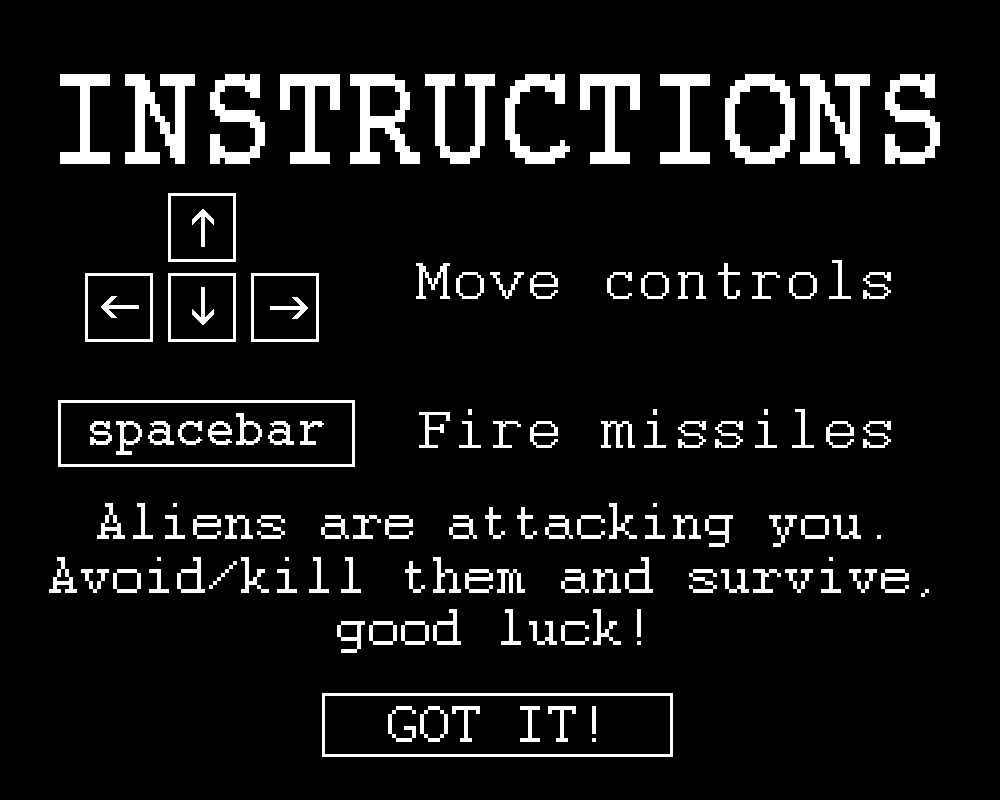
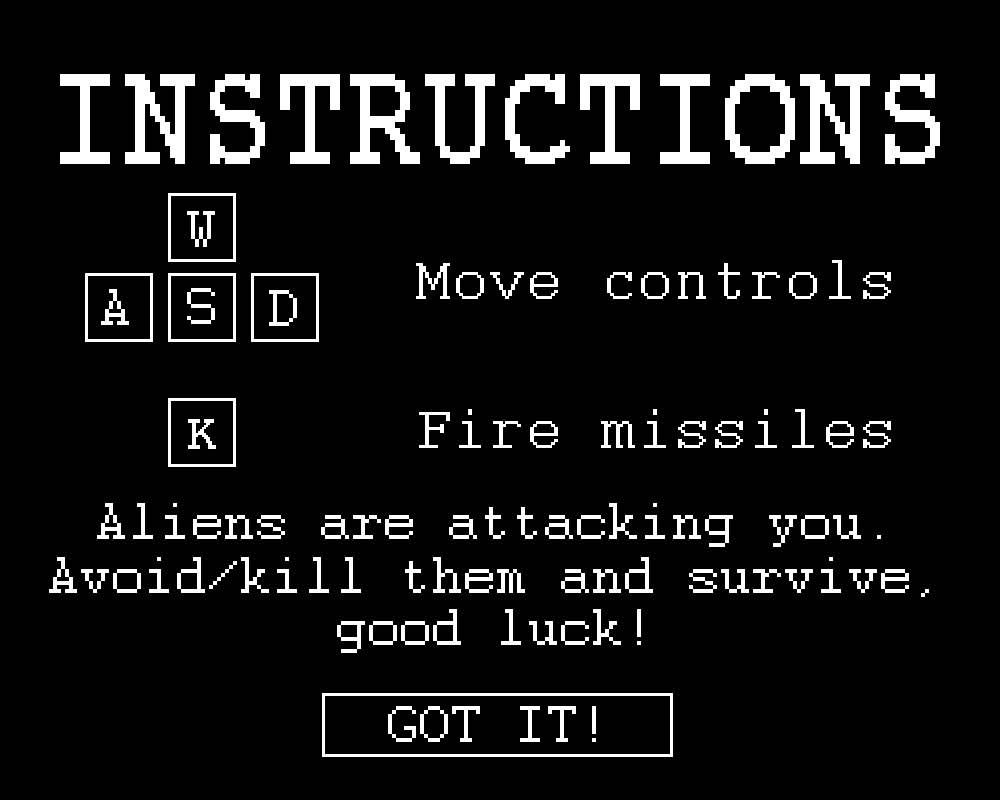
Control changes + HTML index file + Life mechanic change
Controls changed from arrow keys to WASD + K. Also changed instructions
screen and the HTML index file to reflect control changes.
Spaceship.java life upgrade changed.

diff --git a/html/webapp/index.html b/html/webapp/index.html
@@ -1,32 +1,23 @@
 <!doctype html>
 <html>
-       <head>
-              <title>LivingSpace</title>
-              <meta http-equiv="content-type" content="text/html; charset=UTF-8">
-              <link href="styles.css" rel="stylesheet" type="text/css">
-              <script src="soundmanager2-setup.js"></script>
-  			  <script src="soundmanager2-jsmin.js"></script>
-       </head>
+  <head>
+    <title>LivingSpace</title>
+    <meta http-equiv="content-type" content="text/html; charset=UTF-8">
+    <link href="styles.css" rel="stylesheet" type="text/css">
+    <script src="soundmanager2-setup.js"></script>
+    <script src="soundmanager2-jsmin.js"></script>
+  </head>
 
-       <body>
-              <a class="superdev" href="javascript:%7B%20window.__gwt_bookmarklet_params%20%3D%20%7B'server_url'%3A'http%3A%2F%2Flocalhost%3A9876%2F'%7D%3B%20var%20s%20%3D%20document.createElement('script')%3B%20s.src%20%3D%20'http%3A%2F%2Flocalhost%3A9876%2Fdev_mode_on.js'%3B%20void(document.getElementsByTagName('head')%5B0%5D.appendChild(s))%3B%7D">&#8635;</a>
-              <div align="center" id="embed-html"></div>
-              <script type="text/javascript" src="html/html.nocache.js"></script>
-       </body>
-
-       <script>
-              function handleMouseDown(evt) {
-                evt.preventDefault();
-                evt.stopPropagation();
-                evt.target.style.cursor = 'default';
-              }
-
-              function handleMouseUp(evt) {
-                evt.preventDefault();
-                evt.stopPropagation();
-                evt.target.style.cursor = '';
-              }
-              document.getElementById('embed-html').addEventListener('mousedown', handleMouseDown, false);
-              document.getElementById('embed-html').addEventListener('mouseup', handleMouseUp, false);
-       </script>
+  <body onkeydown="avoidDefaultKey(event);">
+    <a class="superdev" href="javascript:%7B%20window.__gwt_bookmarklet_params%20%3D%20%7B'server_url'%3A'http%3A%2F%2Flocalhost%3A9876%2F'%7D%3B%20var%20s%20%3D%20document.createElement('script')%3B%20s.src%20%3D%20'http%3A%2F%2Flocalhost%3A9876%2Fdev_mode_on.js'%3B%20void(document.getElementsByTagName('head')%5B0%5D.appendChild(s))%3B%7D">&#8635;</a>
+    <div id="embed-html"></div>
+    <script type="text/javascript" src="html/html.nocache.js"></script>
+    <script type="text/javascript">
+    function avoidDefaultKey(event) {
+        if (event.keyCode == 32 || event.keyCode >= 37 && event.keyCode <= 40) {
+            event.preventDefault();
+        }
+    }
+</script>
+  </body>
 </html>

diff --git a/core/src/sanoke/livingspace/LevelTemplate.java b/core/src/sanoke/livingspace/LevelTemplate.java
@@ -163,19 +163,19 @@ public abstract class LevelTemplate implements Screen {
 	}
 
 	private void processKeyBoardInputs(float delta) {
-		if (Gdx.input.isKeyPressed(Keys.LEFT)) {
+		if (Gdx.input.isKeyPressed(Keys.A)) {
 			player.moveLeft(delta);
 		}
-		if (Gdx.input.isKeyPressed(Keys.RIGHT)) {
+		if (Gdx.input.isKeyPressed(Keys.D)) {
 			player.moveRight(delta, game.WIDTH);
 		}
-		if (Gdx.input.isKeyPressed(Keys.UP)) {
+		if (Gdx.input.isKeyPressed(Keys.W)) {
 			player.moveForward(delta, game.HEIGHT);
 		}
-		if (Gdx.input.isKeyPressed(Keys.DOWN)) {
+		if (Gdx.input.isKeyPressed(Keys.S)) {
 			player.moveBackward(delta);
 		}
-		if (Gdx.input.isKeyPressed(Keys.SPACE)) {
+		if (Gdx.input.isKeyPressed(Keys.K)) {
 			player.fire();
 		}
 	}

diff --git a/core/src/sanoke/livingspace/Spaceship.java b/core/src/sanoke/livingspace/Spaceship.java
@@ -167,7 +167,7 @@ public class Spaceship {
     
     public void upgradeLives() {
         upgradesBoughtLives++;
-        lives = INIT_LIVES + UPGRADE_MULT_LIVES * upgradesBoughtLives;
+        lives += (UPGRADE_MULT_LIVES * upgradesBoughtLives);
         
     }
 
